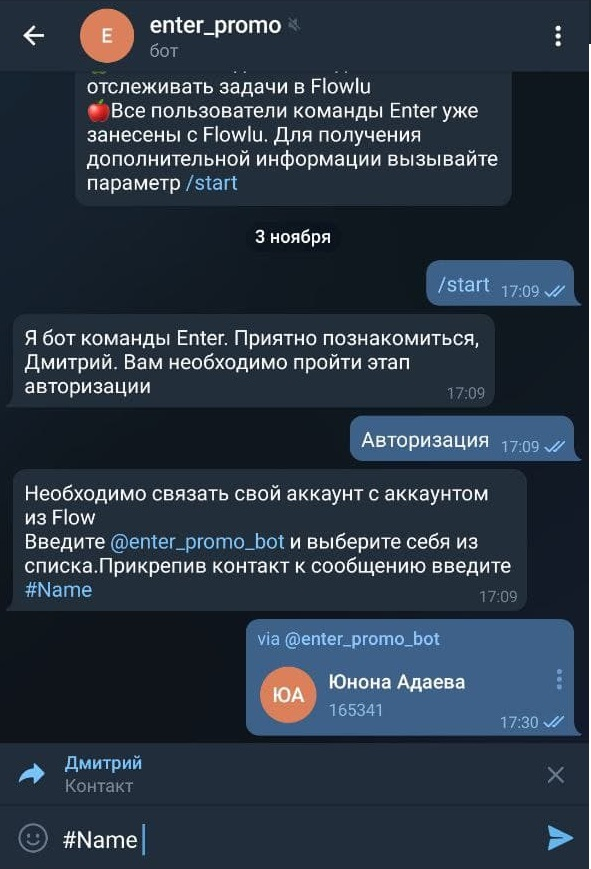
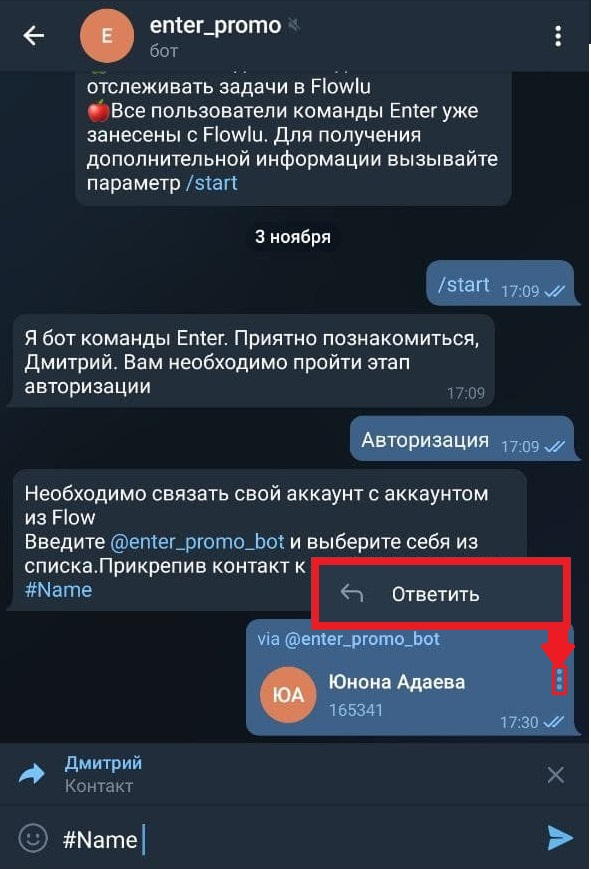
changes that you made

Changed region(s): [[0.5178, 0.6214, 0.9746, 0.8078]]

diff --git a/main.py b/main.py
@@ -36,10 +36,10 @@ async def send_welcome(msg: types.Message):
         await msg.answer_photo(photo=open('media/inline_msg_cut.jpg', 'rb'))
         await msg.answer(
             f'2. Прикрепить выбранный контакт к следущему сообщению')
-        await msg.answer_photo(photo=open('media/msg_reply_example.png', 'rb'))
+        await msg.answer_photo(photo=open('media/reply_contact.jpg.png', 'rb'))
         await msg.answer(
             f'3. Прописать команду\nПример:\n#Задача Заголовок задачи\n')
-        await msg.answer_photo(photo=open('media/example_msg_end.png', 'rb'))
+        await msg.answer_photo(photo=open('media/msg_end_example.png', 'rb'))
     else:
         await msg.answer(
             f'Я бот команды Enter. Приятно познакомиться, {msg.from_user.first_name}. Вам необходимо пройти этап авторизации',
